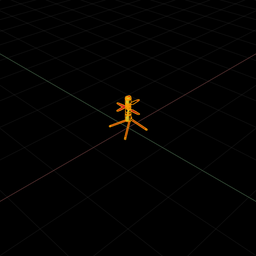
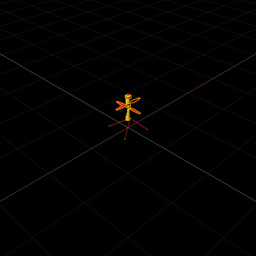
made the props spin, added to the docker README

Changed region(s): [[0.4062, 0.3438, 0.5625, 0.5625], [0.5625, 0.5, 0.5938, 0.5312]]

diff --git a/docker/extras/drag_and_drop/behavior_script.py b/docker/extras/drag_and_drop/behavior_script.py
@@ -104,7 +104,7 @@ class TestScript(BehaviorScript):
     def on_init(self):
         print('PRIM PATH', self.prim_path)
         self.p = self.stage.GetPrimAtPath(self.prim_path)
-        #self.prop_prim = self.stage.GetPrimAtPath(str(self.prim_path) + '/spirit_uav/meshes/mesh_17')
+        self.prop_prim = self.stage.GetPrimAtPath(str(self.prim_path) + '/spirit_uav/meshes/mesh_17')
         #print('YOOOOOOOOOOOO', str(self.prim_path) + '/spirit_uav/meshes/mesh_17', self.prop_prim)
         print(self.p.GetAttributes())
         self.p.GetAttribute('xformOp:translate').Set((0,0, 0))
@@ -114,14 +114,14 @@ class TestScript(BehaviorScript):
         self.dronekit_connection = None
         self.initialized = False
         self.drone_count = 0
-        '''
+        #'''
         self.prop_rotation_q = Quatf(0.9999619, 0, 0.0087265, 0) # 1 degree
-        for i in range(3):
+        for i in range(7):
             self.prop_rotation_q *= self.prop_rotation_q
         print(self.prop_prim.GetAttribute('xformOp:orient'))
         self.prop_prim.GetAttribute('xformOp:orient').Set(self.prop_prim.GetAttribute("xformOp:orient").Get()*
                                                           self.prop_rotation_q)
-        '''
+        #'''
 
     def on_update(self, current_time, delta_time):
         #print('update', current_time, delta_time)
@@ -163,10 +163,10 @@ class TestScript(BehaviorScript):
                 #self.p.set_world_pose(p, o)
                 self.p.GetAttribute('xformOp:translate').Set(p)
                 self.p.GetAttribute('xformOp:orient').Set(o)
-                '''
+                #'''
                 self.prop_prim.GetAttribute('xformOp:orient').Set(self.prop_prim.GetAttribute("xformOp:orient").Get()*
                                                                   self.prop_rotation_q)
-                '''
+                #'''
             else:
                 print("Drone location from dronekit is None")
     

diff --git a/docker/README.md b/docker/README.md
@@ -9,6 +9,15 @@ docker compose up -d
 # enter a bash session
 docker compose exec airstack_dev bash
 
+# launch the isaacsim with two drones
+cd ~/Airstack/ros_ws
+source install/setup.bash
+ros2 launch central ascent_isaac_two_drones.xml
+# wait until you see the odometry appear in rviz then do the following in the RQT GUI
+Click the "Offboard" button, then the "Arm" button, then the "Takeoff" button
+# After a few seconds the drone should takeoff
+Click publish on the fixed trajectory part of the GUI to send different trajectory patterns that the drone will follow
+
 # stop service
 docker compose stop 
 ```
